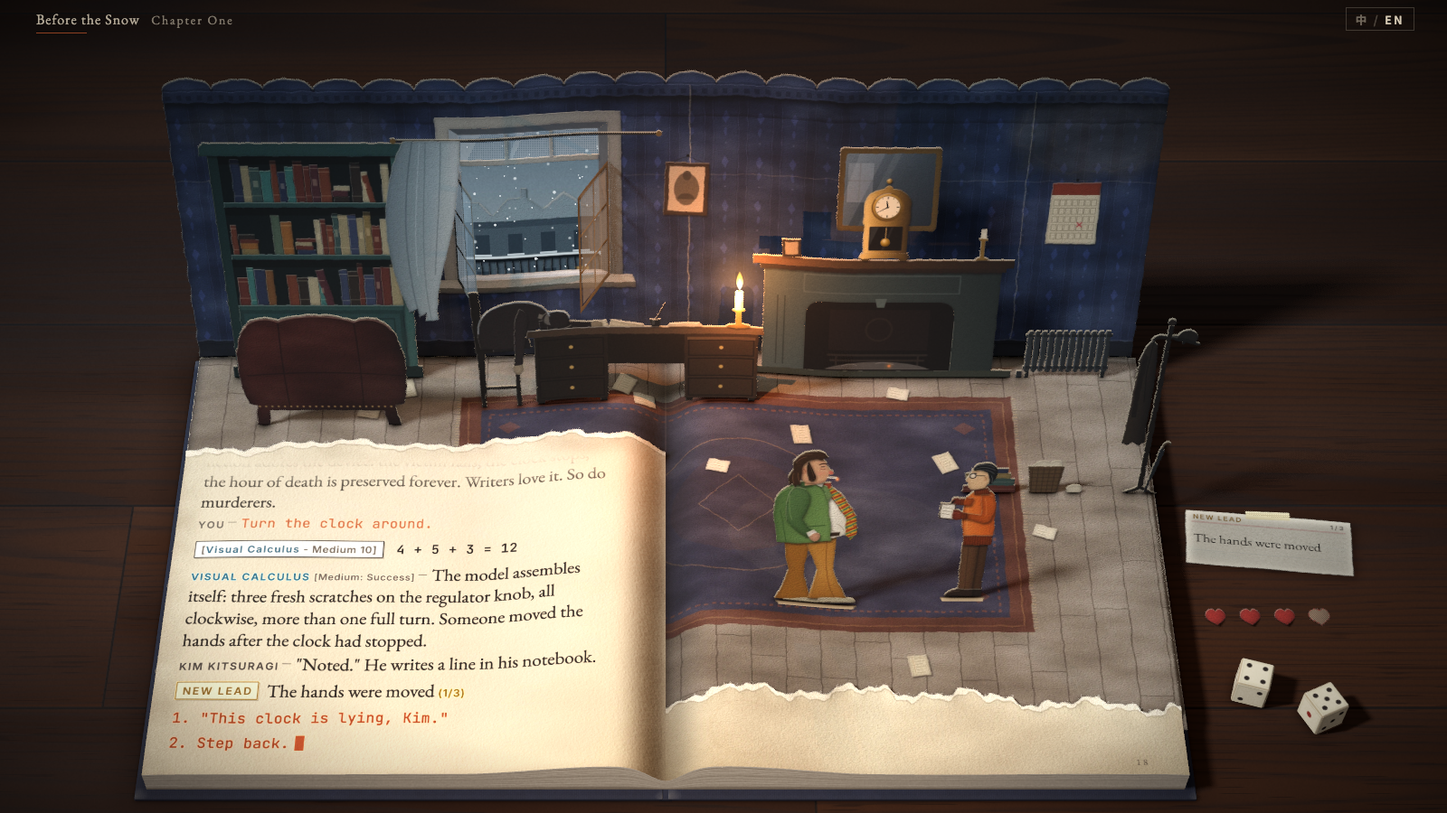
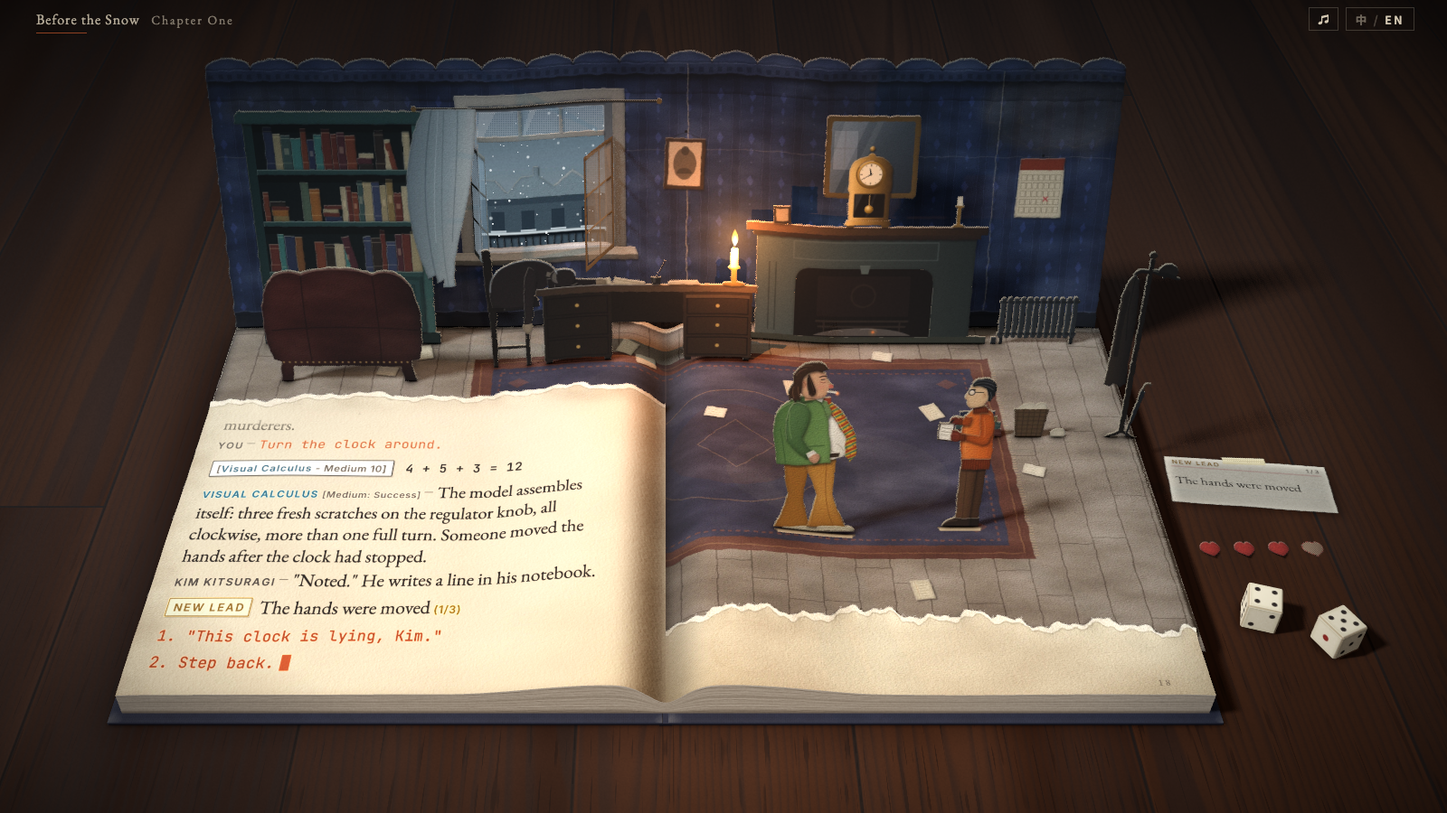
docs: describe the fourth round and refresh the screenshots
The reader's view by default, the background music, and the two sets of
candidates (puppet versions, style presets) waiting for the user's choice.

diff --git a/README.md b/README.md
@@ -9,6 +9,7 @@
 - [技术栈评估](docs/tech-eval.md)：为什么从 CSS 3D 迁移到 Three.js，文字页如何贴在纸面上。
 - [Three.js 画面](docs/style-board-three.png)、[英文版](docs/style-board-three-en.png)、[左页 1:1 裁切](docs/style-board-three-text.png)与[纸偶 2 倍裁切](docs/style-board-three-puppets.png)：当前画面基准。
 - M1 通关截图（`npm run play` 生成）：[开场](docs/m1-intro.png)、[悬停金](docs/m1-hover-kim.png)、[新线索卡片](docs/m1-lead.png)、[骰子翻滚中](docs/m1-roll.png)、[悬停座钟](docs/m1-hover-clock.png)、[还原第二段](docs/m1-recon-2.png)、[还原第四段](docs/m1-recon-4.png)、[第一章 完](docs/m1-end.png)与[英文结尾](docs/m1-end-en.png)。
+- 第四轮的候选方案（用页面参数切换，待选定）：[相机取景](docs/view.md)（`?view=`）、[纸偶版本](docs/cast.md)（`?cast=`）、[原作风格参考与预设](docs/style-refs.md)（`?style=`）；[背景音乐](docs/music.md)。
 - [风格板截图](docs/style-board.png)：M0 阶段的 CSS 3D 画面，作对照。
 - [早期布局示意图](docs/mockup-layout.png)：第一版平面示意，已被风格板取代，仅作对照。
 
@@ -30,7 +31,7 @@ npm test         # 对话引擎的单元测试
 
 打开页面即从 `study.intro` 开始游玩第一章，一直到「第一章 完」。
 
-- **画面**：相机以约 58° 的俯角从书的正前方看过去，接近坐在桌前看书的角度。整本书和立体书房完整入画，四周露出胡桃木桌面。左页顶层纸撕到约四分之一深度，撕口后方的地板上立着书架、壁炉、书桌与扶手椅，撕口以下是对话日志。右页顶层纸撕到接近页尾，房间地板一直铺到那里，哈里与金站在房间中央的地毯上。书右侧的桌面上从远到近放着线索卡堆、四颗对折的纸心（士气）与两枚圆角纸骰。窗外下着雪，雪只在窗洞里可见。
+- **画面**：相机模拟坐在桌前读书：眼睛比桌面高约 47 cm，离书的中心约 64 cm，从书的中心看约 45° 仰角。书前留出一截桌面，桌面木板由近及远，和书的两条侧边汇向同一个消失点。整本书和立体书房完整入画，四周露出胡桃木桌面。左页顶层纸撕到约四分之一深度，撕口后方的地板上立着书架、壁炉、书桌与扶手椅，撕口以下是对话日志。右页顶层纸撕到接近页尾，房间地板一直铺到那里，哈里与金站在房间中央的地毯上。书右侧的桌面上从远到近放着线索卡堆、四颗对折的纸心（士气）与两枚圆角纸骰。窗外下着雪，雪只在窗洞里可见。
 - **质感**：窗侧主光的影子在落脚处清晰、随距离变软（PCSS），墙在桌面上的影子是柔和的渐变。立着的纸片都有卡纸厚度，朝上的切边露出一条浅色纸芯。木桌由着色器按世界坐标绘制：木板、年轮、导管与板缝，任何分辨率都清晰。
 - **书页打开**：立体书房先正面朝下折在书页上，露出素色纸背，再由后往前逐排翻起，纸偶最后立起。墙立起时窗扇打开、窗外开始下雪，书桌立起后蜡烛点亮。
 - **日志逐字打出**：中文每字 55 毫秒，英文每字符 28 毫秒；逗号类标点后多停 120 毫秒（英文 80），句末标点后多停 260 毫秒（英文 180）；内心声音在名字后停 0.3 秒。打字时点击补全当前一段。每段打完停下，左页右下角闪烁「▼ 继续」，点击、空格或回车进入下一段；玩家自己的「你 —」行、紧接选项的最后一段与掷骰行不停。
@@ -41,22 +42,26 @@ npm test         # 对话引擎的单元测试
 - **还原**：逻辑思维还原成功后，画面转冷、烛光稍亮、雪停，窗扇合上，钟的指针倒回 22:30、钟摆重新摆动，顶部时间标记显示真实时间（22:30 起，逐段推进到 23:30）。壁炉与衣帽架之间立起一段楼梯，房东太太的狗趴在楼梯口。马雷克上楼（狗抬头又趴下），从楼梯后面走进房间，走到书桌前一记重击（烛火乱晃、全场暗一拍）；再走到座钟前把指针拨到 23:40、按住钟摆；走到窗前，窗扇向屋内推开；随后原路下楼。雪重新落下，屋顶、防火梯和窗台积起雪。回到现在，楼梯与狗折回地板。
 - **结尾**：选择「走吧，去二楼。」后，金转身、哈里跟上，两人向右走出房间，在页边折倒；蜡烛熄灭，日志末尾出现「第一章 完」。
 
+- **音乐**：原创的芯片音乐风格背景音乐（D 小调带多利亚色彩，76 BPM，约 76 秒无缝循环），用 Web Audio 实时合成，没有音频文件。第一次点击或按键后淡入；右上角「中 / EN」左边的按钮开关音乐，选择保存在浏览器里。回忆时音色转冷，回到现在时恢复，章节结尾淡出。详见 `docs/music.md`。
+
 所有动画都走同一个虚拟时钟，系统设置「减少动态效果」时直接显示结束状态。
 
 `?still` 是风格板：第一章 `study.clock` 节点的一个静止瞬间（见微知著检定成功、第一条线索已归入桌面卡堆、士气 3/4）。左页日志自下而上排列，旧行升入撕口处淡出，鼠标滚轮可在左页上翻看历史。鼠标移动时相机有几度的视差，悬停左页的当前选项会高亮。右上角可切换中英文，游戏中切换会立即补全正在打字的一行并重排日志与选项，不重置进度。
 
-`bake`、`shot`、`play` 与 `extract-art` 通过 `tools/chromium.mjs` 选择浏览器（可用 `CHROMIUM_PATH` 覆盖）：macOS 上用本机 Google Chrome 与 GPU；云端容器里用预装的 Chromium，没有 GPU 时由 SwiftShader 提供 WebGL 2。页面参数：`?still` 显示风格板并冻结雪、颗粒与光标，用于截图；`?lang=en` 以英文打开；`?seed=N` 固定骰子种子；`?dice=4-5,3-3,5-6` 依次强制之后几次掷骰的点数；`?speed=N` 以 N 倍速播放动画与打字（测试用）；`?debug` 在 `window.__debug` 暴露场景对象。`npm run play` 通过 `window.__play` 读取选项（编号、id、状态）并用数字键按 id 选择，在指定时刻冻结虚拟时钟截图，断言没有控制台错误且到达结尾。
+`bake`、`shot`、`play` 与 `extract-art` 通过 `tools/chromium.mjs` 选择浏览器（可用 `CHROMIUM_PATH` 覆盖）：macOS 上用本机 Google Chrome 与 GPU；云端容器里用预装的 Chromium，没有 GPU 时由 SwiftShader 提供 WebGL 2。页面参数：`?still` 显示风格板并冻结雪、颗粒与光标，用于截图；`?lang=en` 以英文打开；`?seed=N` 固定骰子种子；`?dice=4-5,3-3,5-6` 依次强制之后几次掷骰的点数；`?speed=N` 以 N 倍速播放动画与打字（测试用）；`?debug` 在 `window.__debug` 暴露场景对象。候选方案：`?view=0|1|2|3` 相机取景（默认 2，0 为第三轮之前的取景），`?cast=1|2|3|4` 纸偶版本（默认为原来的一对），`?style=1|2|3` 原作风格预设（数字可组合，如 `?style=13`；默认不启用）。`npm run play` 通过 `window.__play` 读取选项（编号、id、状态）并用数字键按 id 选择，在指定时刻冻结虚拟时钟截图，断言没有控制台错误且到达结尾。
 
 ## 模块
 
-- `src/scene/`：`table` 着色器绘制的胡桃木桌面（木板、年轮、导管、板缝），`book` 布面书壳、书芯与书口纸线、底页上的地板、两张撕开的顶页（左页撕到约四分之一深度，右页撕到接近页尾），`popup` 背景板五层，`puppets` 站在地板上的哈里与金和纸质立脚，`tabletop` 桌面道具的摆放，`dice` 桌面上的圆角纸骰与掷骰动画，`hearts` 桌面上对折的士气纸心，`lead` 新线索卡片（落在右页，点击后归入桌面卡堆），`hotspots` 悬停提示的拾取（按纹理透明度的射线命中、各背景层内的区域）与提亮，`cues` 全部舞台指令（窗扇、钟的指针与钟摆、窗外与窗台的积雪、楼梯与狗、马雷克在房间里的行走、调色与灯光、时间标记、结尾的退场与熄烛）和开场时纸片从书页上逐排翻起，`lights` 灯光与阴影，`penumbra` 主光的软阴影（PCSS，改写 three.js 的阴影着色器片段），`post` 颗粒、暗角、调色与夜色，`camera` 相机与视差，`snow` 窗外的雪，`space` 坐标、书页截面曲线与纸片工具，`paper` 纸纹、布纹、书口纸线、烘焙的接触阴影与卡纸厚度（纸芯切边与纸背）。
+- `src/scene/`：`table` 着色器绘制的胡桃木桌面（木板、年轮、导管、板缝），`book` 布面书壳、书芯与书口纸线、底页上的地板、两张撕开的顶页（左页撕到约四分之一深度，右页撕到接近页尾），`popup` 背景板五层，`puppets` 站在地板上的哈里与金和纸质立脚，`tabletop` 桌面道具的摆放，`dice` 桌面上的圆角纸骰与掷骰动画，`hearts` 桌面上对折的士气纸心，`lead` 新线索卡片（落在右页，点击后归入桌面卡堆），`hotspots` 悬停提示的拾取（按纹理透明度的射线命中、各背景层内的区域）与提亮，`cues` 全部舞台指令（窗扇、钟的指针与钟摆、窗外与窗台的积雪、楼梯与狗、马雷克在房间里的行走、调色与灯光、时间标记、结尾的退场与熄烛）和开场时纸片从书页上逐排翻起，`lights` 灯光与阴影，`penumbra` 主光的软阴影（PCSS，改写 three.js 的阴影着色器片段），`post` 颗粒、暗角、调色与夜色，`camera` 候选取景（`VIEWS`）与视差，`palette` 风格预设 2 的灯光与调色，`details` 风格预设 3 在运行时绘制的原作细节（交互标记、检定纸条等），`snow` 窗外的雪，`space` 坐标、书页截面曲线与纸片工具，`paper` 纸纹、布纹、书口纸线、烘焙的接触阴影与卡纸厚度（纸芯切边与纸背）。
 - `src/play/`：`clock` 虚拟时钟（补间、等待、倍速、减少动态效果、测试用的冻结），`director` 逐个播放引擎给出的节拍，每段之后等待点击，并在等待玩家选择时接受输入，`log` 左页日志的逐字打出（按标点停顿）、滚动、选项、「▼ 继续」、读屏镜像与选项提示。
-- `src/page/`：`layout` 日志排版（说话者 + 破折号、结果标签、编号选项、置灰与红色检定标记；中文按字断行、避头尾，英文按词；自下而上锚定），`painter` 画布绘制（纵向拉伸 1.1 倍，抵消斜看纸面造成的字形压扁）、逐字显示、滚动窗口与撕口处的淡出，`hit` 射线命中选项。
+- `src/page/`：`layout` 日志排版（说话者 + 破折号、结果标签、编号选项、置灰与红色检定标记；中文按字断行、避头尾，英文按词；自下而上锚定），`painter` 画布绘制（按取景纵向拉伸，默认 1.21 倍，抵消斜看纸面造成的字形压扁）、逐字显示、滚动窗口与撕口处的淡出，`hit` 射线命中选项。
+- `src/audio/`：`score` 乐谱（原创），`engine` 用 Web Audio 演奏乐谱的合成器（脉冲波、阶梯三角波、噪声、回声与卷积混响），`music` 开关按钮、首次交互启动、预读调度与剧情钩子。
+- `src/style.ts`：解析 `?style=`，风格预设的开关。
 - `src/engine/`：对话引擎（节点、检定、旗标、士气、白色重试与红色一次性），只产出节拍，不做动画。
 - `src/content/`：`schema` 类型（design.md 7.3），`skills` 九项技能、属性色、难度与标签格式，`study` 第一章全部节点，`study-clock` 风格板瞬间，`ui` 界面文字（时间标记、新线索、继续、第一章 完、成功率等），`hotspots` 悬停提示的名称与描述。
-- `assets/art/*.svg`：每张纸片一个矢量源文件，撕边与纸纹滤镜写在文件里，只在烘焙时运行。`floor-papers.json` 是地板上散落纸页的位置与大小，地板脚本与悬停提示共用。纸偶 `harry.svg`、`kim.svg` 为手绘，根元素的 `data-*` 属性给出脚底、立脚范围与烟头位置。M1 新增的手绘纸片：`casement` 窗扇，`clock-hour`、`clock-minute`、`pendulum` 钟的指针与钟摆，`stairs` 楼梯与平台，`dog`、`dog-head` 房东太太的狗，`marek` 马雷克的剪影，`heart`、`heart-empty` 士气心形，`lead-card` 新线索卡片；`far-snow`、`sill-snow` 由 `extract-art` 从旧风格板拆出。地板（含地毯与散落纸页）与两张顶页的撕口也由 `extract-art` 生成，参数见脚本开头。
+- `assets/art/*.svg`：每张纸片一个矢量源文件，撕边与纸纹滤镜写在文件里，只在烘焙时运行。`floor-papers.json` 是地板上散落纸页的位置与大小，地板脚本与悬停提示共用。纸偶 `harry.svg`、`kim.svg` 为手绘，根元素的 `data-*` 属性给出脚底、立脚范围与烟头位置；`harry-v1`…`v4`、`kim-v1`…`v4` 是按原作不同参考图画的候选版本（`docs/cast.md`）。M1 新增的手绘纸片：`casement` 窗扇，`clock-hour`、`clock-minute`、`pendulum` 钟的指针与钟摆，`stairs` 楼梯与平台，`dog`、`dog-head` 房东太太的狗，`marek` 马雷克的剪影，`heart`、`heart-empty` 士气心形，`lead-card` 新线索卡片；`far-snow`、`sill-snow` 由 `extract-art` 从旧风格板拆出。地板（含地毯与散落纸页）与两张顶页的撕口也由 `extract-art` 生成，参数见脚本开头。
 - `public/textures/`：烘焙结果（WebP，透明通道无损，共约 1.8 MB）；`public/fonts/`：字体子集。
-- `tools/`：`bake` 烘焙，`shot` 截图，`subset-fonts` 字体子集，`extract-art` 从旧风格板提取纸片（一次性迁移工具，重跑会覆盖它生成的纸片，不动手绘的纸偶）。
+- `tools/`：`bake` 烘焙，`shot` 截图（`--view 0,1,2,3` 渲染各取景的对比图），`play` 无头通关（`--view N --out 目录` 在指定取景下通关），`cast` 渲染各纸偶版本的对比图，`subset-fonts` 字体子集，`extract-art` 从旧风格板提取纸片（一次性迁移工具，重跑会覆盖它生成的纸片，不动手绘的纸偶）。
 
 ## 字体
 
@@ -68,4 +73,4 @@ npm test         # 对话引擎的单元测试
 
 ## 当前阶段
 
-M1 最小 Demo：第一章可从开场完整玩到「第一章 完」，包括全部检定与骰子动画、旗标与士气、白色重试与红色一次性、还原成功的完整舞台动画与语言切换。M1 之后的第二次打磨调整了视角、文字尺寸与右页的作用（见 design.md 6.1）；第三次打磨针对质感：软阴影、卡纸厚度、木桌、桌面道具、开场与纹理体积（见 design.md 8 节）。下一步是 M2。
+M1 最小 Demo：第一章可从开场完整玩到「第一章 完」，包括全部检定与骰子动画、旗标与士气、白色重试与红色一次性、还原成功的完整舞台动画与语言切换。M1 之后的第二次打磨调整了视角、文字尺寸与右页的作用（见 design.md 6.1）；第三次打磨针对质感：软阴影、卡纸厚度、木桌、桌面道具、开场与纹理体积（见 design.md 8 节）。第四轮加入读者视角的取景、原创背景音乐，以及纸偶版本与原作风格预设两组候选方案，待选定后收敛。下一步是 M2。

diff --git a/docs/handoff.md b/docs/handoff.md
@@ -28,23 +28,31 @@
   - 纹理改为 WebP（色彩有损、透明通道无损），`public/textures` 从 14.9 MB 降到 1.8 MB，构建产物从约 18 MB 降到约 3 MB。
   - 工具脚本在 macOS 上改用本机 Chrome 与 GPU。
   - 验证已通过：单元测试 28 项、构建、中英文静帧、中英文无头通关（无控制台错误）、悬停提示命中检查。
-- 本文件第 3–8 节描述 PR #2 合并后的代码。PR #2 未合并时，从该分支继续开发。
+- 第四轮（分支 `claude/round4-view-bgm-cast-style`，基于 PR #2 的分支）：由四个子任务并行完成后合并。
+  - 取景：相机改为坐在桌前的读者视角，默认视角 2（眼高约 47 cm、离书中心约 64 cm），书前留出桌面，桌面木板由近及远。`?view=0|1|2|3` 切换候选，0 为此前的取景（`docs/view.md`）。
+  - 背景音乐：原创芯片音乐，只借「Whirling-In-Rags」的氛围，不改编、不转录原曲（版权）。Web Audio 实时合成，右上角开关，回忆转冷、结尾淡出（`docs/music.md`）。
+  - 纸偶：按原作四类参考图（对话肖像、游戏内 3D 模型、封面、设定图）各画一版，`?cast=1|2|3|4` 切换，默认仍是原来的一对（`docs/cast.md`）。参考图只在文档里外链。
+  - 原作风格：三组参考（对话与界面、油画与光色、标志性细节）与对应的三个运行时预设，`?style=1|2|3` 可组合，默认不启用（`docs/style-refs.md`）。
+  - 验证：单元测试 41 项、构建、中英文静帧、中英文无头通关（默认参数）均通过；各子任务在各自的候选参数下也完整通关过。
+  - 待用户选定：取景、纸偶版本、风格预设的取舍，见第 8 节。
+- 本文件第 3–8 节描述第四轮合并后的代码。
 
 ## 3. 环境与命令
 
 | 命令 | 作用 | 云端容器内耗时 | macOS（M4 Pro）耗时 |
 |---|---|---|---|
 | `npm install` | 安装依赖（需要 Node 20+） | — | — |
-| `npm test` | 引擎与打字节奏的单元测试 | 约 1 秒 | 约 1 秒 |
+| `npm test` | 引擎、打字节奏、乐谱与风格参数的单元测试（41 项） | 约 1 秒 | 约 1 秒 |
 | `npm run build` | 类型检查并构建到 `dist/` | 约 5 秒 | 约 1 秒；产物约 3 MB |
 | `npm run dev` | 开发服务器 | — | — |
-| `npm run shot` / `npm run shot -- --lang en` | 渲染风格板静帧，写 `docs/style-board-three*.png`，并打印构图、字形尺寸与帧耗时 | 约 1 分钟 | 约 5 秒 |
-| `npm run play` | 无头通关中英文各一遍，写 `docs/m1-*.png`；`-- --only zh` 只跑中文 | 约 8 分钟（只跑中文约 5 分钟） | 约 2 分钟 |
+| `npm run shot` / `npm run shot -- --lang en` | 渲染风格板静帧，写 `docs/style-board-three*.png`，并打印构图、字形尺寸与帧耗时；`-- --view 0,1,2,3` 改为写各取景的 `docs/view-N.png` | 约 1 分钟 | 约 5 秒 |
+| `npm run play` | 无头通关中英文各一遍，写 `docs/m1-*.png`；`-- --only zh` 只跑中文；`-- --view N --out 目录` 在指定取景下通关并把截图写到别处 | 约 8 分钟（只跑中文约 5 分钟） | 约 2 分钟 |
+| `node tools/cast.mjs` | 渲染各纸偶版本，写 `docs/cast-v*.png` 与 `docs/cast-sheet.png` | — | 约 10 秒 |
 | `npm run extract-art` | 从 `demo/index.html` 重新生成提取类纸片的 SVG | 数秒 | 数秒 |
 | `npm run bake [名称…]` | 把 `assets/art/*.svg` 烘焙成 `public/textures/*.webp` 与 `manifest.json` | 地板约 18 秒，其余数秒 | 地板约 2 秒 |
 | `npm run fonts` | 按全部台词重新裁剪字体子集（需要访问 Google Fonts） | — | — |
 
-页面参数：`?still` 风格板静帧；`?lang=en` 英文；`?seed=N` 骰子种子；`?dice=4-5,3-3` 强制掷骰点数；`?speed=N` 倍速；`?debug` 在 `window.__debug` 暴露场景对象。`tools/play.mjs` 通过 `window.__play` 驱动游戏。
+页面参数：`?still` 风格板静帧；`?lang=en` 英文；`?seed=N` 骰子种子；`?dice=4-5,3-3` 强制掷骰点数；`?speed=N` 倍速；`?debug` 在 `window.__debug` 暴露场景对象；`?view=N` 取景候选；`?cast=N` 纸偶版本；`?style=1|2|3` 风格预设（可组合）。`tools/play.mjs` 通过 `window.__play` 驱动游戏。
 
 浏览器：`tools/chromium.mjs` 决定 `bake`、`shot`、`play`、`extract-art` 使用的浏览器，可用 `CHROMIUM_PATH` 覆盖。
 
@@ -61,14 +69,14 @@
 
 | 要改的东西 | 位置 |
 |---|---|
-| 相机俯角、焦距、构图、视差 | `src/scene/camera.ts` 的 `VIEW`（俯角 58、焦距 2600 帧像素、书尾边在画面第 858 行、封面宽 1190 像素、书中心在第 736 列） |
+| 相机俯角、焦距、构图、视差 | `src/scene/camera.ts` 的 `VIEWS`（每个候选取景一行：光轴俯角、焦距、光轴所在行、书尾边所在行与宽度、书中心列、日志纵向拉伸 `ink`、木板走向 `boards`）与 `DEFAULT_VIEW`（2：俯角 42、焦距 1700 帧像素、书尾边在第 770 行、封面宽 1250 像素、拉伸 1.21、木板由近及远）；参数与指标见 `docs/view.md` |
 | 书页尺寸 | `src/page/layout.ts` 的 `PAGE`（670 × 720），必须与 `tools/extract-art.mjs` 的 `BOOK_H` 一致 |
 | 撕口、家具行距、地毯 | `tools/extract-art.mjs` 开头的 `LEFT_TEAR`、`RIGHT_TEAR`、`ROWS`、`RUG`、`FLOOR_H` 与地板脚本；改完运行 `extract-art`，再 `bake floor page-left page-right` |
 | 散落纸页 | `assets/art/floor-papers.json`（每张 `[x, y, 角度, 宽, 高]`，y 从折线量起；高大于宽为账页，否则为订货单）。`extract-art` 按它画进地板，悬停提示按它划分区域；改完运行 `extract-art` 与 `bake floor` |
 | 立体层的铰接行与后倾角 | `src/scene/popup.ts` 的 `PIECES` |
 | 哈里与金的位置、大小 | `src/scene/puppets.ts` 的 `PUPPETS` |
 | 桌面道具（线索卡堆、纸心、骰子） | `src/scene/tabletop.ts` 的 `TABLE`；线索卡落点与尺寸在 `src/scene/lead.ts` 的 `DROP`、`FILED` |
-| 日志字号与行高 | `src/page/layout.ts` 的 `SIZES`；文字栏范围 `textColumn`；纵向拉伸 `src/main.ts` 的 `INK_STRETCH` |
+| 日志字号与行高 | `src/page/layout.ts` 的 `SIZES`；文字栏范围 `textColumn`；纵向拉伸按取景取 `VIEWS[n].ink`（`src/main.ts` 的 `INK_STRETCH`） |
 | 打字速度、标点停顿 | `src/play/log.ts` 的 `TYPE_MS`、`PAUSES`；逐段停顿规则在 `src/play/director.ts` |
 | 灯光 | `src/scene/lights.ts`（半球光、左侧主光、蜡烛、窗光、台灯） |
 | 主光软阴影 | `src/scene/penumbra.ts`；光源角半径 `angle`（度）与最大半影 `max`（世界单位）在 `lights.ts` 调用 `softShadows` 处 |
@@ -81,6 +89,9 @@
 | 剧本、选项、检定 | `src/content/study.ts`，与 `docs/design.md` 4.4 节保持一致；技能与难度在 `skills.ts`；界面文字在 `ui.ts` |
 | 悬停提示 | 文案在 `src/content/hotspots.ts`；拾取区域在 `src/scene/hotspots.ts` 的 `REGIONS` |
 | 检定、旗标、重试规则 | `src/engine/`（`runner.ts`、`rules.ts`），测试在 `runner.test.ts` |
+| 背景音乐 | 乐谱 `src/audio/score.ts`（音符、段落、速度），音色与混响 `src/audio/engine.ts`，开关、启动、剧情钩子 `src/audio/music.ts`；剧情钩子经 `createCues` 的 `onCue` 回调接入。说明见 `docs/music.md` |
+| 纸偶版本 | `assets/art/harry-vN.svg`、`kim-vN.svg`（与原来的纸偶同样的 `data-*` 属性）；`?cast=N` 在 `src/main.ts` 加载后把 `art.harry`、`art.kim` 换成选中的版本，其余模块不需要改 |
+| 原作风格预设 | 开关 `src/style.ts`；预设 1 在 `src/page/layout.ts`、`painter.ts`、`src/play/log.ts` 与 `index.html` 的 `data-style` 样式；预设 2 在 `src/scene/palette.ts` 与 `post.ts`；预设 3 在 `src/scene/details.ts`。参考与取舍见 `docs/style-refs.md` |
 
 ## 5. 约定
 
@@ -91,7 +102,10 @@
   - 木桌不是纸片，由 `src/scene/table.ts` 的着色器绘制，没有纹理。
   - 以下为手绘纸片，不受 `extract-art` 影响：harry、kim、casement、clock-hour、clock-minute、pendulum、stairs、dog、dog-head、marek、heart、heart-empty、lead-card。
   - SVG 根元素的 `data-*` 属性进入 `manifest.json` 的 `meta`，例如脚底位置、撕口范围、地毯范围。
-- **文字**：日志用 Canvas 2D 排版，作为纹理贴在左页网格上，点击用射线取 UV。排版在未拉伸的坐标里进行，绘制时纵向拉伸 1.1 倍；`optionRects()` 返回拉伸后的真实页面坐标。
+- **文字**：日志用 Canvas 2D 排版，作为纹理贴在左页网格上，点击用射线取 UV。排版在未拉伸的坐标里进行，绘制时按取景纵向拉伸（默认 1.21 倍）；`optionRects()` 返回拉伸后的真实页面坐标。
+- **候选方案**：`?view`、`?cast`、`?style` 是给用户比较用的开关。选定后把选中的一项设为默认，其余删掉或保留作对照，并同步本文件、README 与 design.md。
+- **音乐**：只在第一次点击、触摸或按键之后创建 AudioContext（浏览器会对更早的尝试发出警告，`play` 把控制台警告当失败）；`?still` 不出声。
+- **参考图**：原作图片只在文档里外链，不进仓库；纸偶与界面都是自绘。
 - **动画**：一律走 `src/play/clock.ts` 的虚拟时钟（`tween`、`wait`），因此支持倍速、减少动态效果与测试冻结。引擎只产出节拍，`Director` 逐个播放。
 - **卡纸**：用 `standing()` 立起的纸片调用 `cardEdge()`，得到纸芯切边与纸背。平放在地板或桌面上的纸片（地板、线索卡、纸心）不加。
 - **着色器补丁**：`penumbra.ts` 在任何材质编译之前改写 three.js 的 `shadowmap_pars_fragment`、`lights_fragment_begin` 与 `shadowmask_pars_fragment`。升级 three.js 后如果锚点文本变了，启动时直接报错，不会静默失效。主光的阴影贴图是普通深度纹理，只能用 `PCFShadowMap` 类型；聚光灯与蜡烛仍用 three.js 自带的 PCF。
@@ -116,6 +130,8 @@
 | 开场改为向前折叠 | 向后倒平时，高的纸片伸出书头、悬在桌面上方。真实立体书合上时纸片向前折在书页上；朝前折叠后越靠后的纸片越在上层，由后往前翻起时不会互相穿过 |
 | 木桌用着色器绘制 | 原烘焙纹理只有 1 倍分辨率，放大后是模糊的横纹；着色器按世界坐标绘制，任何分辨率都清晰，还省去 1 MB 纹理 |
 | 纹理用 WebP | PNG 共 14.9 MB，其中地板与墙各 4 MB 以上；WebP 质量 0.92 时色差约 2/255，透明通道无损，总量 1.8 MB |
+| 相机改为读者视角（默认视角 2） | 用户反馈书尾边贴着画面下沿、操作别扭，桌面与书的透视不自然。长焦加 58° 俯视让桌面像一张平的背景；视角 2 相当于坐在桌前读书，书前留出桌面，木板由近及远与书的侧边一起汇聚。44° 时文字吃力的问题当时没有纵向拉伸，现在按取景拉伸补偿 |
+| 背景音乐原创，不改编原曲 | 「Whirling-In-Rags」是 British Sea Power 的版权作品，旋律、和声、低音线都不能转录或改编；只借氛围 |
 
 ## 7. 用户偏好
 
@@ -133,6 +149,13 @@
 
 ## 8. 已知问题与候选工作
 
+待用户选定（第四轮的候选方案）：
+
+- 取景：推荐视角 2；视角 3 更有实物感，但上下字号差 19%、日志少约 2 行。选定后删掉其余候选并更新 design.md 6.1 与本文件。
+- 纸偶：子任务推荐 v2（游戏内 3D 模型，服装、比例、鞋都可核对）。v2 的金双手背在身后，剧本里他多次翻开笔记本；可以把 v1 的脸（哈里的络腮胡、红眼圈，金的竖发、粗框眼镜）并入 v2。选定后更新 design.md 3.2、3.3、6.4。
+- 风格：子任务推荐以预设 1 为基础，叠加预设 3 的检定纸条与交互标记，预设 2 只取青色暗部、暗角与蜡烛辉光。待定细节：普通选项悬停的变化是否够明显、检定卡片写难度档位还是原作的概率描述词、继续条的颜色、交互标记是否按节点设定。
+- 音乐：只有开关，没有音量滑块；钟的嘀嗒在现在的段落里也有（钟其实停着）；马雷克按住钟摆时是否让钟声停止；离线渲染试听的脚本是否收进 `tools/`。
+
 - 纸偶没有按原作立绘校准，需要用户在对话中附参考图，或在环境设置中放行对应域名。
 - 主光软阴影的采样盘按像素旋转，宽半影里有细小的噪点，被颗粒掩盖。弱 GPU 上帧耗时会增加（M4 Pro 上 1600 × 900 约 8 毫秒）。
 - 回忆中的楼梯与狗仍从向后平躺升起，升起途中穿过家具层，大部分被墙与家具挡住。
@@ -148,7 +171,7 @@
 
 ## 9. 迭代流程
 
-1. 从 `main` 建分支。PR #2 未合并时，从 `claude/handsoff-polish-9bc7b7` 继续。
+1. 从 `main` 建分支。PR #2 与第四轮未合并时，从 `claude/round4-view-bgm-cast-style` 继续。
 2. 修改后依次运行 `npm test`、`npm run build`、`npm run shot`（中英文）。改到交互或动画时，再跑 `npm run play`。
 3. 同步更新 README、`docs/design.md`、本文件与截图。
 4. 提交并推送，开 PR 到 `main`。Vercel 生成预览部署，在浏览器中确认后合并。
